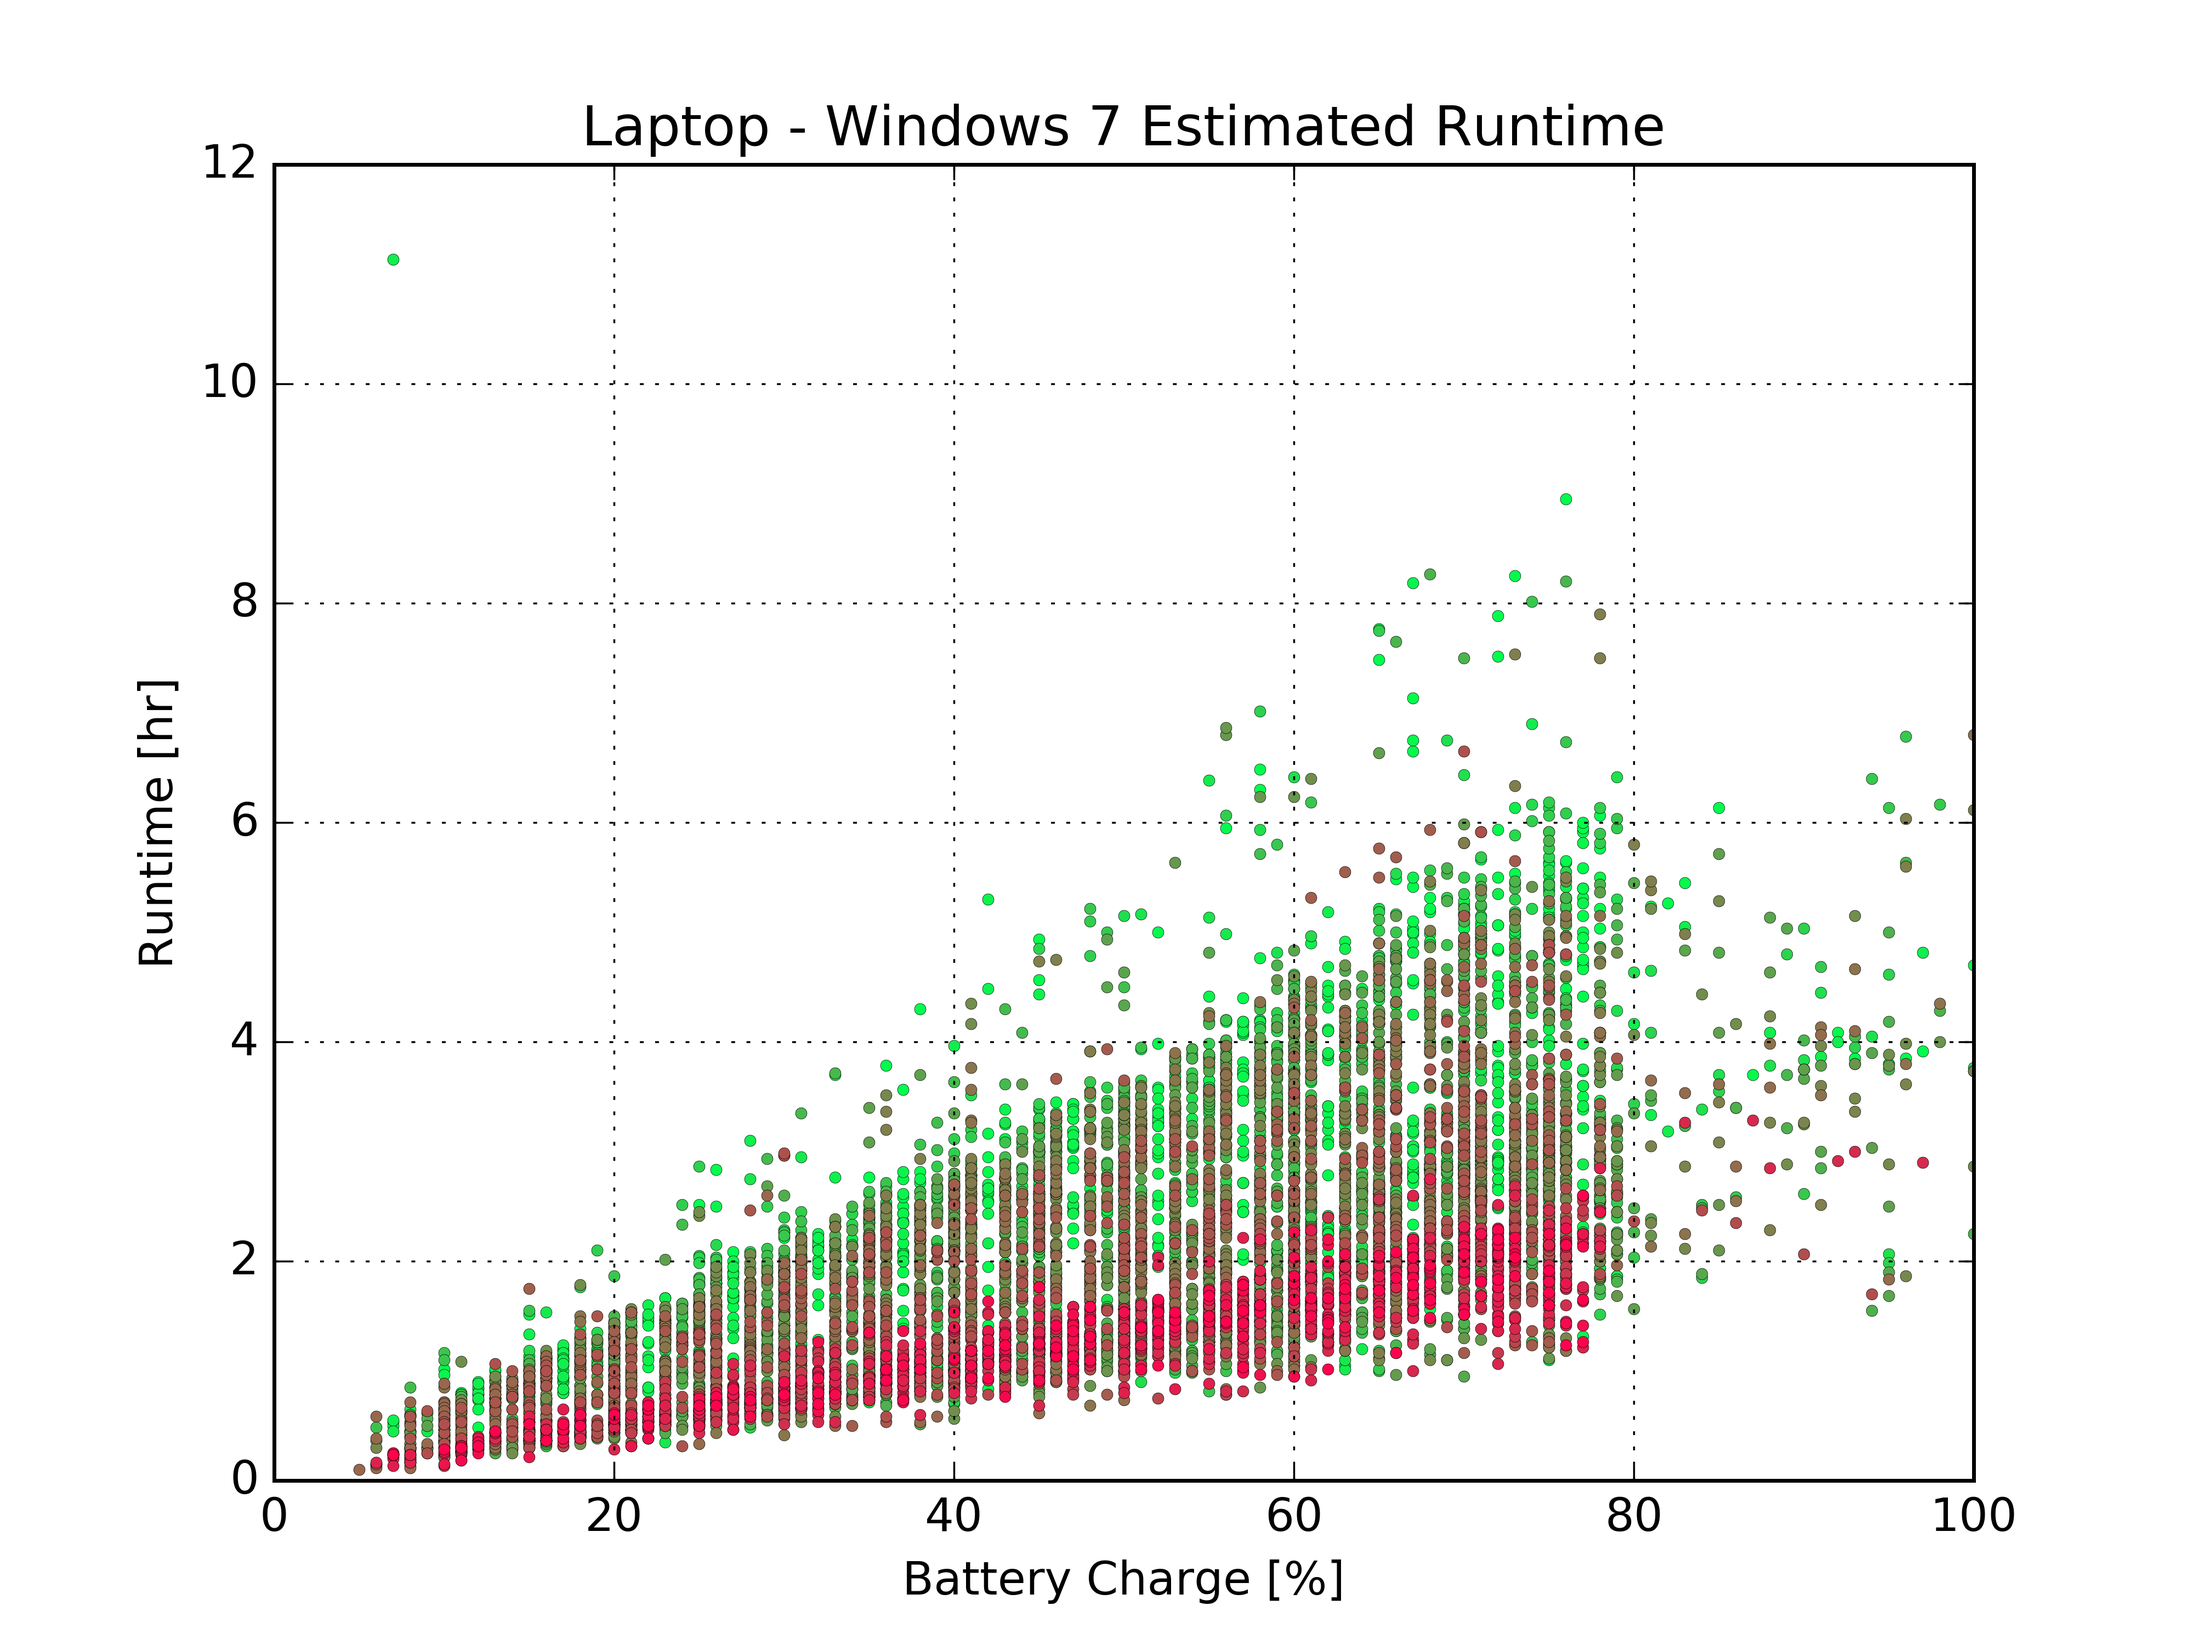
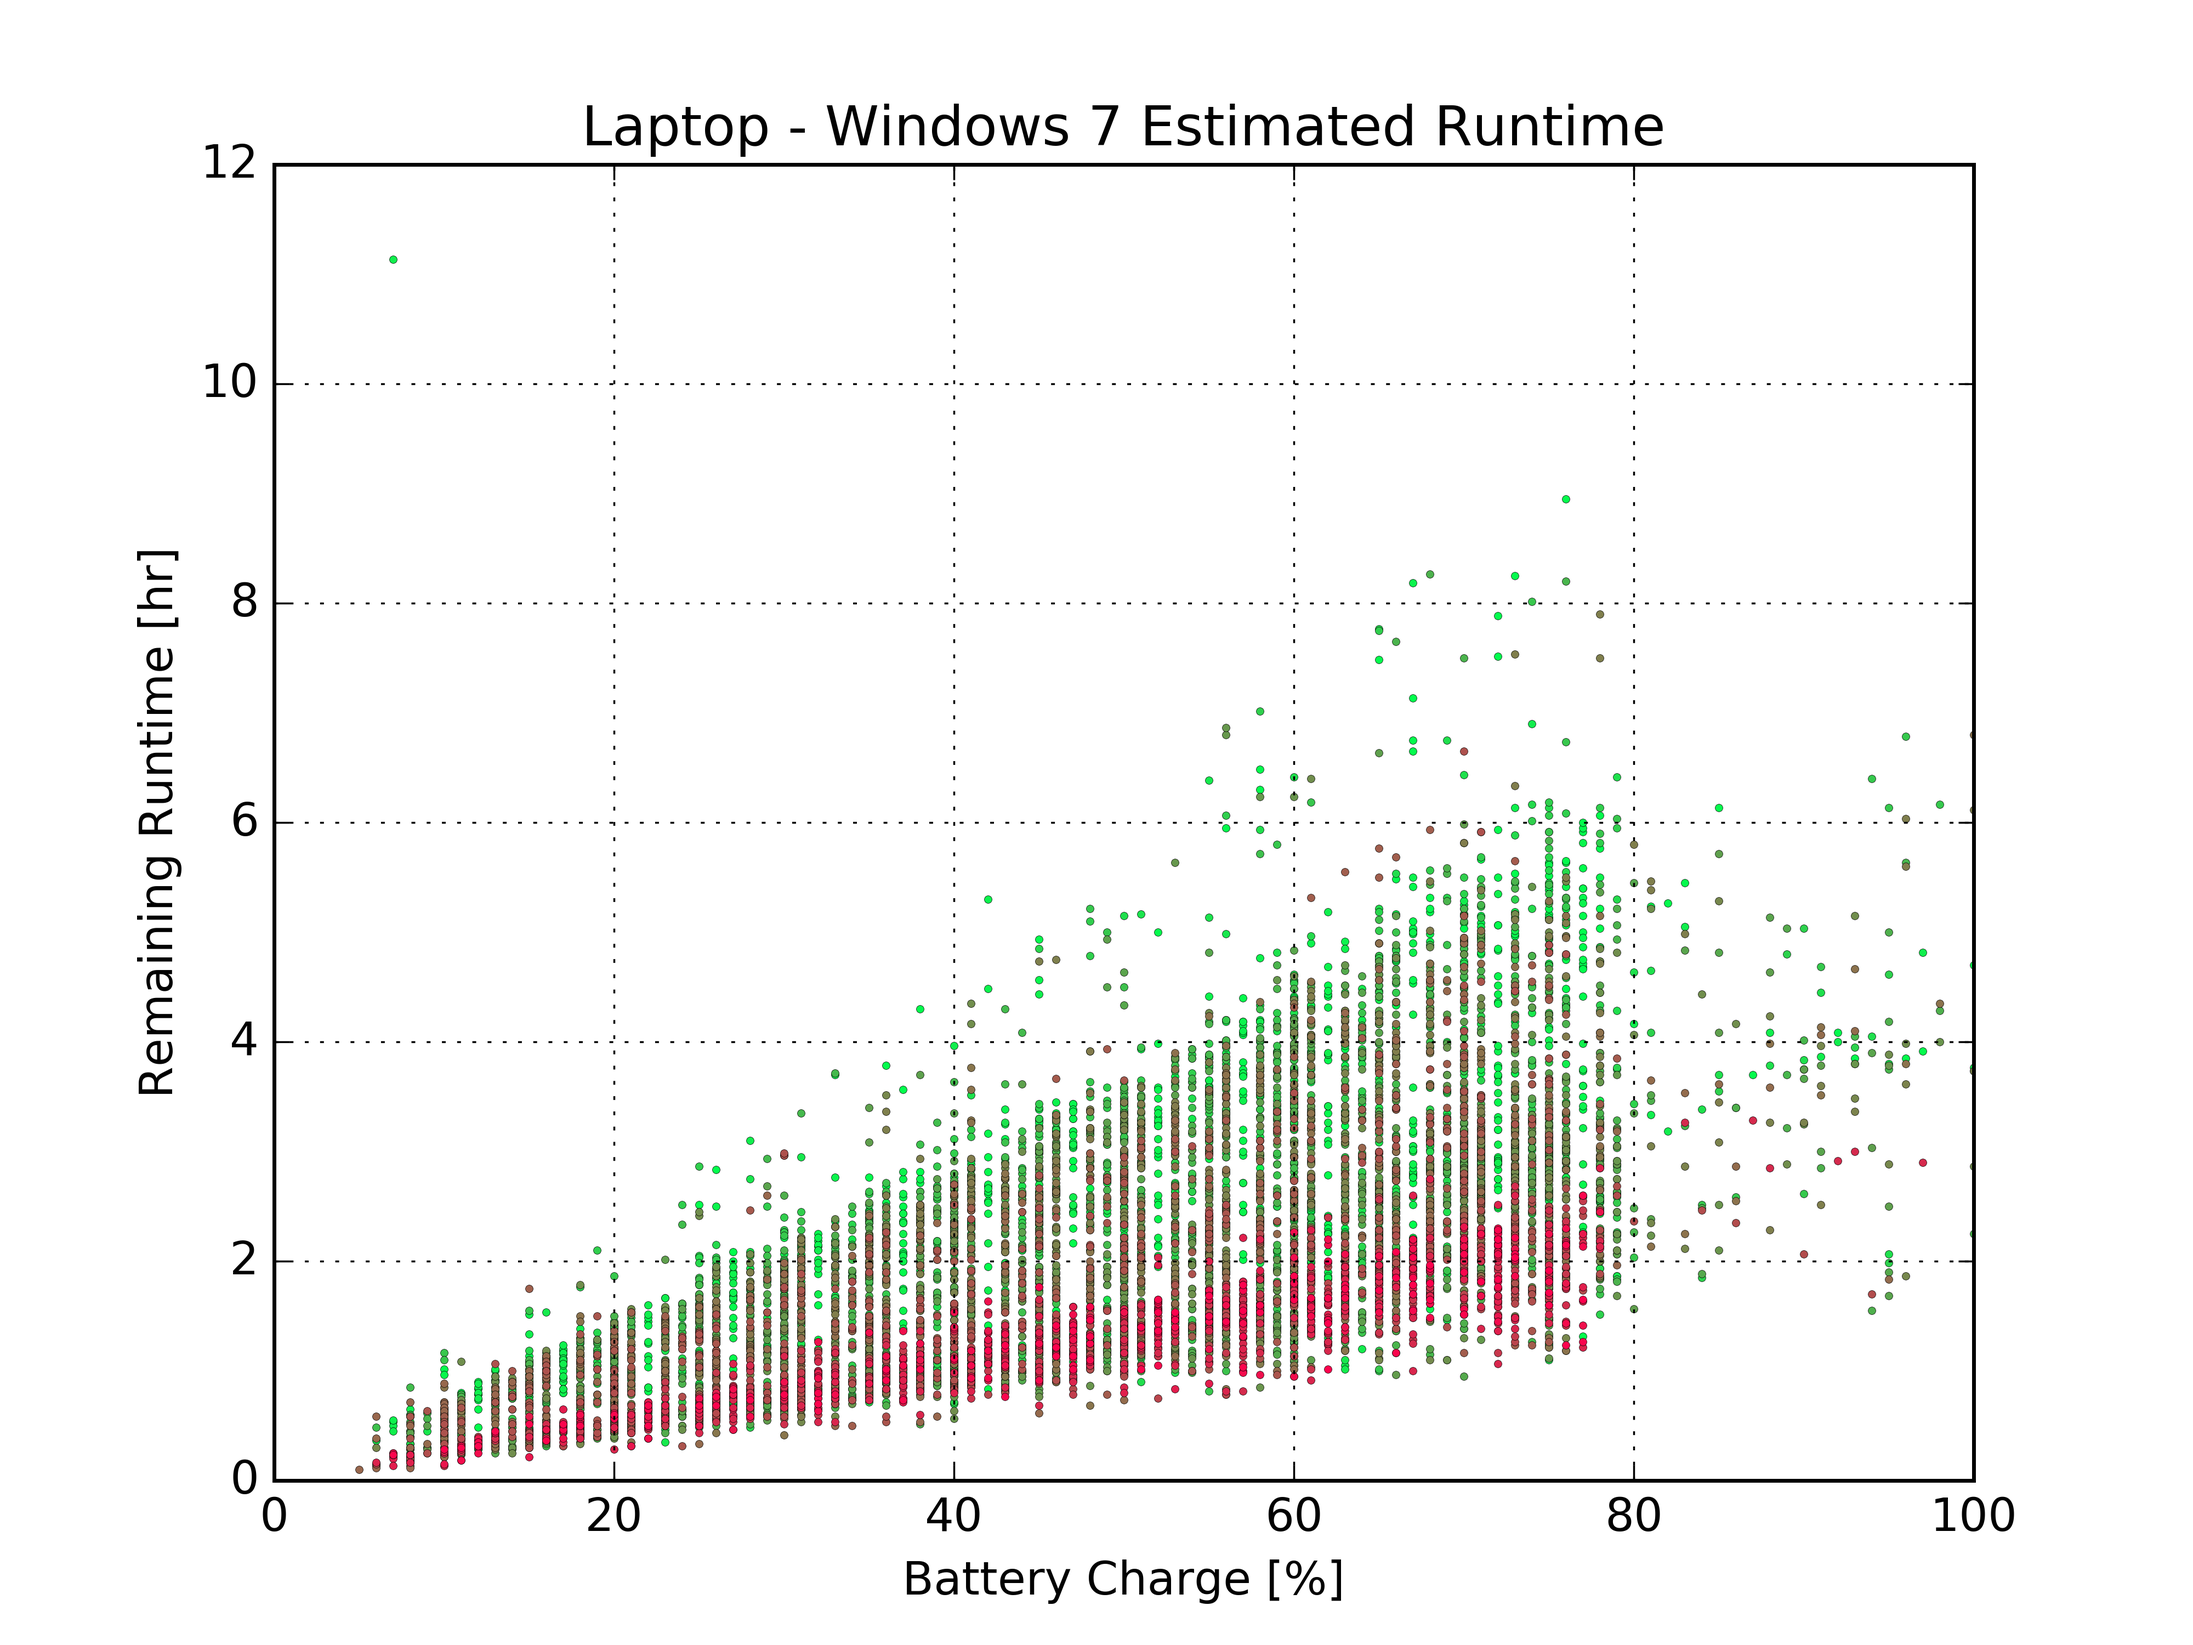
Refactor and add documentation to analyze.py
- Also tweak charge-runtime graph and update

diff --git a/analyze.py b/analyze.py
@@ -16,11 +16,21 @@ def usage():
           "python analyze.py [logfile] [outfile]\n\n" + \
           "Arguments: \n" + \
           "    [logfile]    Input file with data written by battery.py\n" + \
-          "    [outfile]    Output image file name\n"
+          "    [outfile]    Output image file name (without extension)\n"
 
 
 def parseLog(logfile):
-    """Reads and parses log data from file"""
+    """
+    Reads and parses log data from file,
+    
+    @param logfile: The filename (including path) of the log file to be parsed.
+    
+    @return: A dictionary of string to array mappings:
+     - 'dates' => A list of datetime objects
+     - 'statuses' => A list of integer status values
+     - 'charges' => A list of integer charge percentages
+     - 'runtimes' => A list of integer runtimes
+    """
     
     result = {}
     
@@ -29,6 +39,7 @@ def parseLog(logfile):
     result['charges'] = []
     result['runtimes'] = []
     
+    print "Parsing log"
     
     # Read input file
     with open(logfile, 'r') as f:
@@ -42,8 +53,6 @@ def parseLog(logfile):
             # [2016-02-03 20:11:23, BatteryStatus=2, EstimatedChargeRemaining=78, EstimatedRunTime=71582788, Status=OK]
             
             data = dataline.strip("[]\n").split(", ")
-            
-            #print data;
             
             # Parse Date
             floatdate = datetime.strptime(data[0], DATE_FORMAT)  #convert date string into datetime object
@@ -65,7 +74,6 @@ def parseLog(logfile):
             processline = f.readline()
         
     
-    
     # print "DATES:\n"
     # print [mktime(d.timetuple()) for d in result['dates']]
     # print "\nSTATUSES:\n"
@@ -78,6 +86,95 @@ def parseLog(logfile):
     return result
 
     
+def graph_date_v_charge(data):
+    """
+    Graphs charge data over time.
+    
+    @param data: Parsed data from log file; output of L{parseLog}
+    """
+    
+    print "Graphing Date v. Charge"
+    
+    # Build color data based on charge percentage
+    colors = []
+    for charge in data['charges']:
+        
+        colors.append((1-charge/100.0, charge/100.0, 0.3))
+
+
+    f1 = pyplot.figure(1)
+
+    for i in range(len(data['dates'])):
+        pyplot.plot_date(data['dates'][i], data['charges'][i], 'o', color=colors[i], 
+                         markersize=3, markeredgewidth=0.1)
+
+    pyplot.ylim(0,100)
+    pyplot.xlabel('Date')
+    pyplot.ylabel('Charge [%]')
+    pyplot.title('Laptop Battery Charge')
+    pyplot.grid(True)
+    pyplot.figure(1).autofmt_xdate()
+
+    pyplot.savefig(outfile + ".png", dpi=500)
+
+    pyplot.close(f1)
+    
+
+
+
+def graph_charge_v_runtime(data):
+    """
+    Graphs runtime data over charge, coloring by date of each sample.
+    Removes runtimes > 24 hours (outliers that happen when laptop is plugged into AC power)
+    
+    @param data: Parsed data from log file; output of L{parseLog}
+    """
+    
+    print "Graphing Charge v. Runtime"
+    
+    f2 = pyplot.figure(2)
+
+    # Create color data based on the sample date
+    date_start = mktime(result['dates'][0].timetuple())
+    date_end = mktime(result['dates'][-1].timetuple())
+
+    #print "start: %d, end: %d, diff: %d" % (date_start, date_end, date_end - date_start)
+    colors = []
+    for date in result['dates']:
+        d = mktime(date.timetuple())
+        colors.append(( (d - date_start) / float(date_end-date_start), 
+                        1 - (d - date_start) / float(date_end-date_start), 0.3))
+
+    
+    # Remove outlier runtime data
+    charges_cleaned = []
+    runtimes_cleaned = []
+    colors_cleaned = []
+
+    for i in range(len(result['runtimes'])):
+        if result['runtimes'][i] < 24*60:  # runtime data is considered bad if it is > 24 hours
+            charges_cleaned.append(result['charges'][i]) 
+            runtimes_cleaned.append(result['runtimes'][i] / 60.0)  # convert runtimes to hours 
+            colors_cleaned.append(colors[i])
+            
+    for i in range(len(charges_cleaned)):
+        pyplot.plot(charges_cleaned[i], runtimes_cleaned[i], 'o', color=colors_cleaned[i], 
+                   markersize=2, markeredgewidth=0.1)
+
+
+    pyplot.xlabel('Battery Charge [%]')
+    pyplot.ylabel('Remaining Runtime [hr]')
+    pyplot.title('Laptop - Windows 7 Estimated Runtime')
+    pyplot.grid(True)
+
+    pyplot.savefig(outfile + "_runtime.png", dpi=500)
+
+    pyplot.close(f2)
+
+
+
+    
+
 # ======  MAIN  ======
 
 
@@ -89,72 +186,15 @@ else:
     usage()
     exit(1)
 
+    
 # Parse log data
 result = parseLog(logfile)
 
-colors = []
-for charge in result['charges']:
-    
-    colors.append((1-charge/100.0, charge/100.0, 0.3))
-
-
 # Graph data: Date vs. Charge
-f1 = pyplot.figure(1)
-
-for i in range(len(result['dates'])):
-    pyplot.plot_date(result['dates'][i], result['charges'][i], 'o', color=colors[i], markersize=3, markeredgewidth=0.1)
-
-pyplot.ylim(0,100)
-pyplot.xlabel('Date')
-pyplot.ylabel('Charge [%]')
-pyplot.title('Laptop Battery Charge')
-pyplot.grid(True)
-pyplot.figure(1).autofmt_xdate()
-
-pyplot.savefig(outfile, dpi=500)
-
-pyplot.close(f1)
-
+graph_date_v_charge(result)
 
 # Graph data: Charge vs. Runtime
-f2 = pyplot.figure(2)
-
-# create color data based on the sample date
-date_start = mktime(result['dates'][0].timetuple())
-date_end = mktime(result['dates'][-1].timetuple())
-
-
-#print "start: %d, end: %d, diff: %d" % (date_start, date_end, date_end - date_start)
-colors = []
-for date in result['dates']:
-    d = mktime(date.timetuple())
-    colors.append(( (d - date_start) / float(date_end-date_start), 
-                    1 - (d - date_start) / float(date_end-date_start), 0.3))
-
-# Remove outlier runtime data
-charges_cleaned = []
-runtimes_cleaned = []
-colors_cleaned = []
-
-for i in range(len(result['runtimes'])):
-    if result['runtimes'][i] < 24*60:
-        charges_cleaned.append(result['charges'][i]) 
-        runtimes_cleaned.append(result['runtimes'][i] / 60.0)  # convert runtimes to hours 
-        colors_cleaned.append(colors[i])
-        
-for i in range(len(charges_cleaned)):
-    pyplot.plot(charges_cleaned[i], runtimes_cleaned[i], 'o', color=colors_cleaned[i], 
-               markersize=3, markeredgewidth=0.1)
-
-
-pyplot.xlabel('Battery Charge [%]')
-pyplot.ylabel('Runtime [hr]')
-pyplot.title('Laptop - Windows 7 Estimated Runtime')
-pyplot.grid(True)
-
-pyplot.savefig(outfile + "_runtime.png", dpi=500)
-
-pyplot.close(f2)
+graph_charge_v_runtime(result)
 
 
 exit(0)
